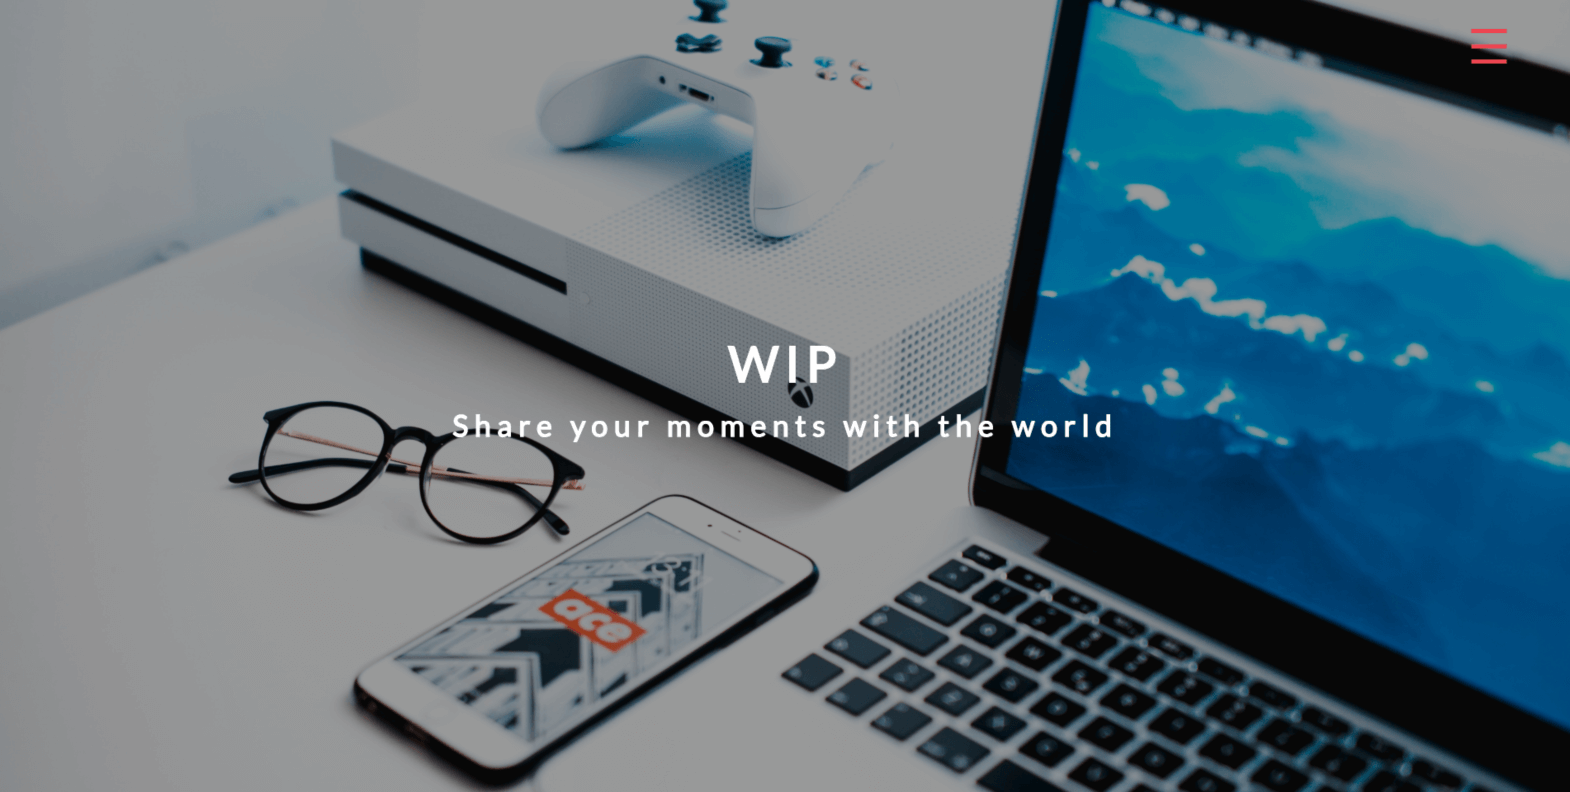
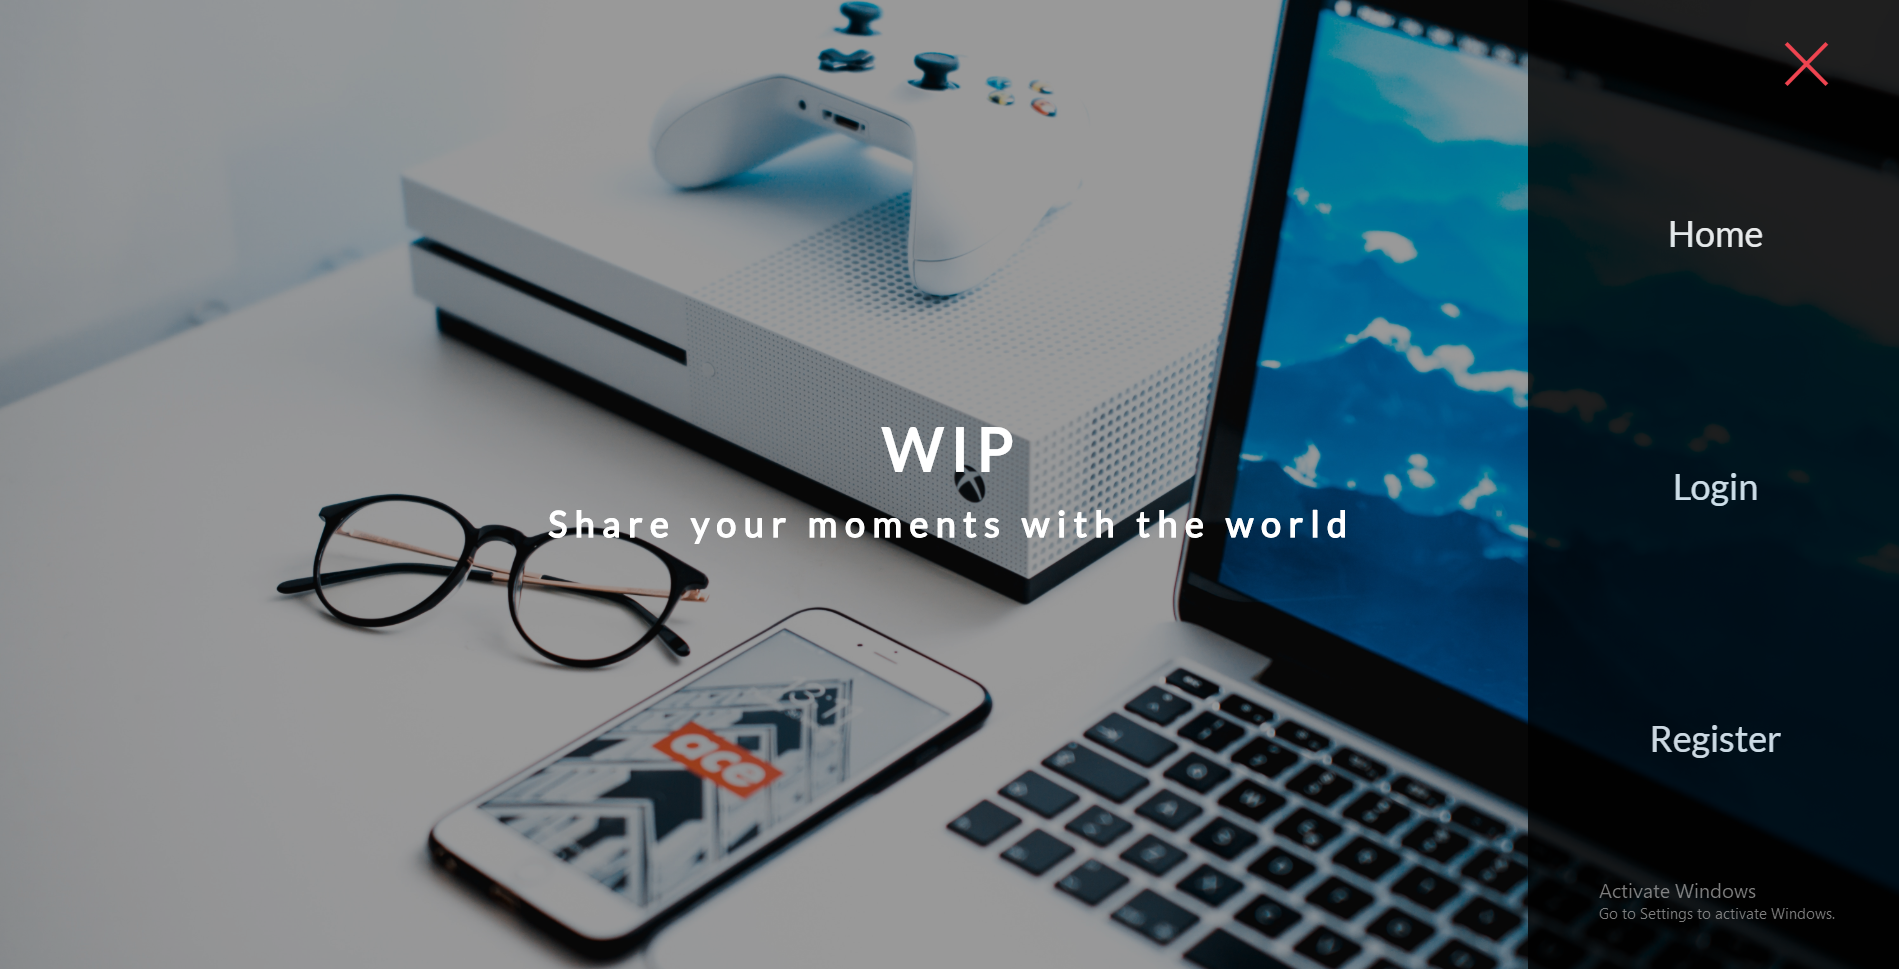
readme

diff --git a/README.md b/README.md
@@ -16,4 +16,11 @@ Backend
   * Mongoose
   * MongoDB
 
+### Login
 ![alt text](https://github.com/Chrisyango/WIP-client/blob/master/public/images/wip.png)
+
+### Browse pictures
+![alt text](https://github.com/Chrisyango/WIP-client/blob/master/public/images/wip-nav.png)
+
+### Upload your own!
+![alt text](https://github.com/Chrisyango/WIP-client/blob/master/public/images/upload.jpg)
